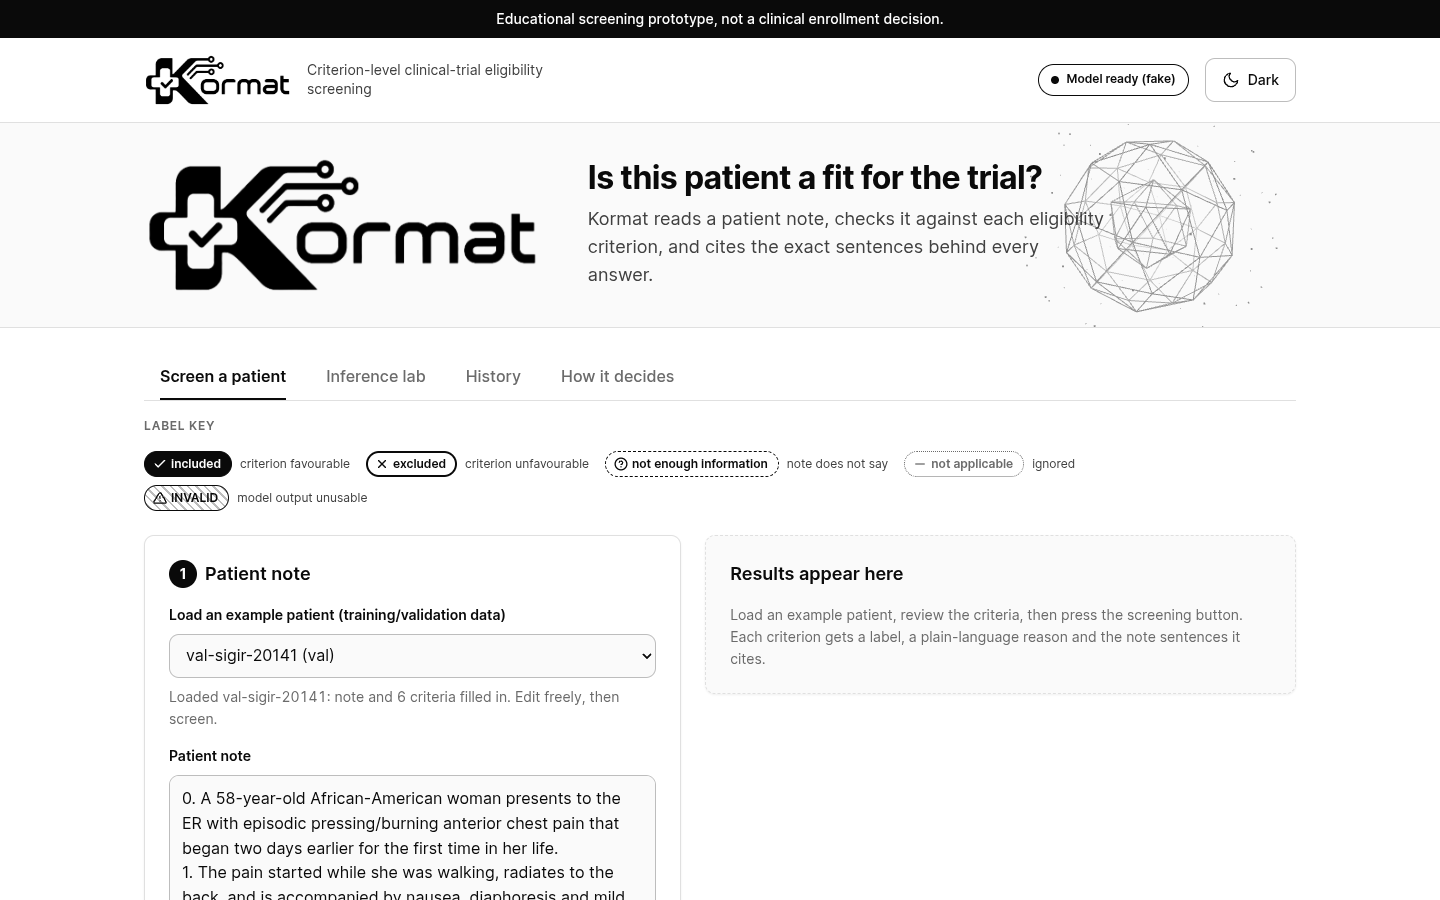
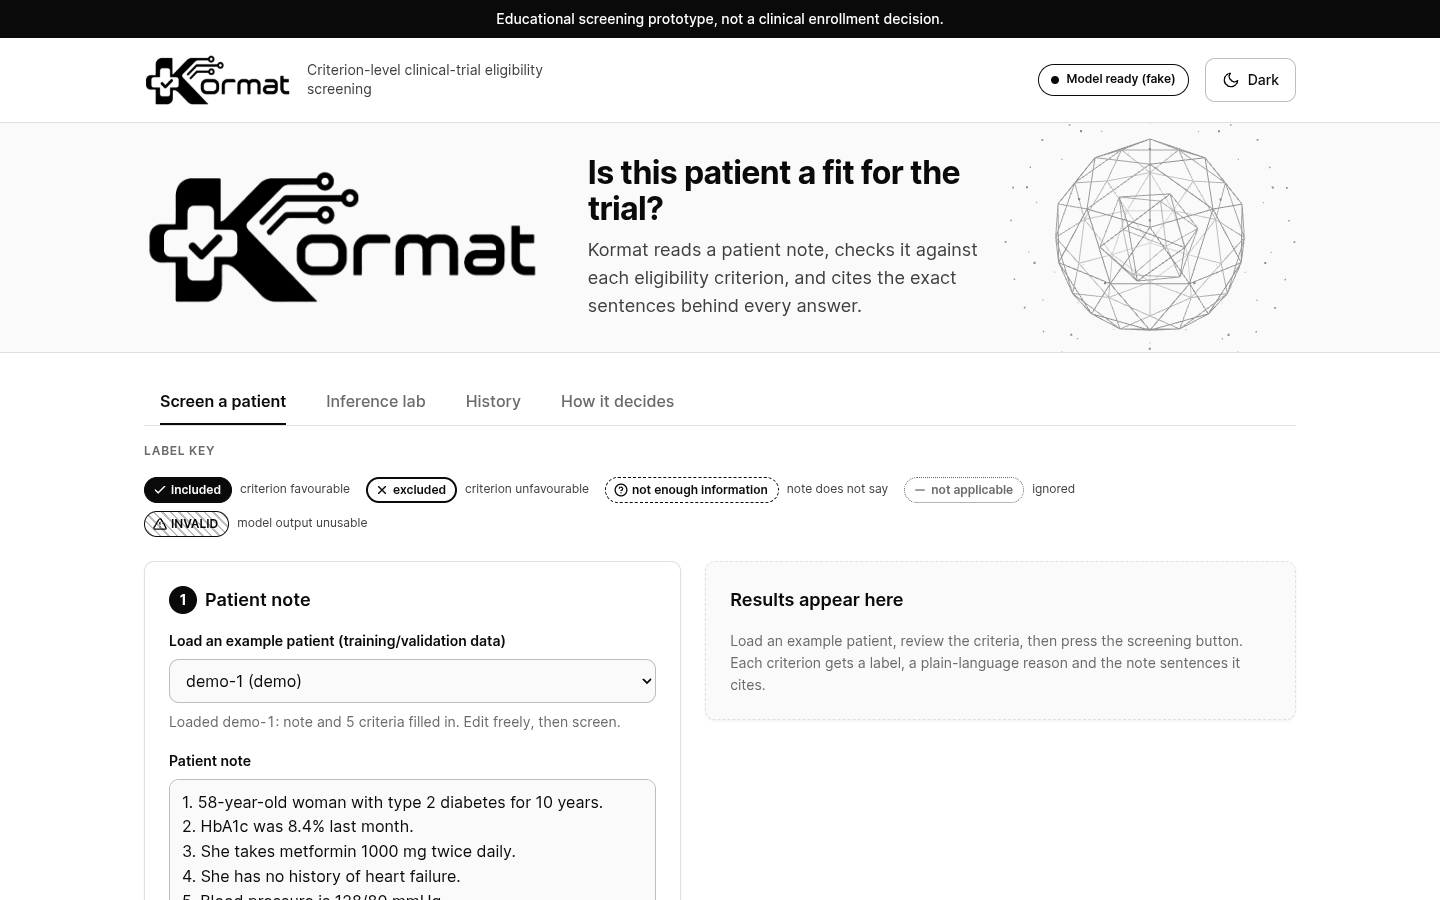
TGA-38: lead review fixes: hero text clear of 3D canvas; criterion-type labels fit (desktop+mobile)

diff --git a/src/kormat/app/static/style.css b/src/kormat/app/static/style.css
@@ -52,7 +52,7 @@ textarea:hover,input:hover,select:hover{border-color:var(--text-3)}
 .btn:disabled{opacity:.55;cursor:progress}.btn.icon{min-width:44px}
 .ic{width:18px;height:18px;flex:none;fill:none;stroke:currentColor;stroke-width:1.75;stroke-linecap:round;stroke-linejoin:round}
 .row{display:flex;gap:8px;align-items:center;margin:16px 0 0;flex-wrap:wrap}.row.nowrap{flex-wrap:wrap}.row.nowrap input{flex:1 1 140px;width:auto}
-.crit{display:grid;grid-template-columns:minmax(0,170px) minmax(0,1fr) 44px;gap:8px;margin:8px 0;animation:rise .25s var(--ease) both}
+.crit{display:grid;grid-template-columns:minmax(0,250px) minmax(0,1fr) 44px;gap:8px;margin:8px 0;animation:rise .25s var(--ease) both}
 @media(max-width:600px){.crit{grid-template-columns:minmax(0,1fr) 44px}.crit select{grid-column:1/-1}}
 .crit.excl select{border-width:2px;border-color:var(--text)}
 .crit .btn{padding:0}
@@ -130,3 +130,7 @@ pre{white-space:pre-wrap;background:var(--surface);border:1px solid var(--border
 .hero{position:relative;overflow:hidden}.hero-in{position:relative;z-index:1}
 #hero3d{display:none;position:absolute;right:0;top:0;width:340px;height:100%;pointer-events:none;opacity:.45;z-index:0}.has3d #hero3d{display:block}
 @media(max-width:1023px){#hero3d{width:100%;opacity:.15}}
+
+/* lead-review fixes: keep hero text clear of the 3D canvas; readable criterion-type labels */
+@media(min-width:1024px){.has3d .hero-in{padding-right:340px}}
+.crit select{text-overflow:ellipsis}

diff --git a/src/kormat/app/static/app.js b/src/kormat/app/static/app.js
@@ -124,7 +124,7 @@ function updateRunLabel() {
 }
 function renderCrits() {
   $("#crits").innerHTML = crits.map((c, i) => `<div class="crit${c.type === "exclusion" ? " excl" : ""}"><select aria-label="Criterion ${i + 1} type" data-i="${i}" data-f="type">
-   <option value="inclusion" ${c.type === "inclusion" ? "selected" : ""}>Inclusion — patient must meet this</option><option value="exclusion" ${c.type === "exclusion" ? "selected" : ""}>Exclusion — patient must NOT have this</option></select>
+   <option value="inclusion" ${c.type === "inclusion" ? "selected" : ""}>Inclusion · must meet</option><option value="exclusion" ${c.type === "exclusion" ? "selected" : ""}>Exclusion · must lack</option></select>
    <input aria-label="Criterion ${i + 1} text" data-i="${i}" data-f="text" value="${esc(c.text)}"><button class="btn" type="button" data-del="${i}" aria-label="Remove criterion ${i + 1}">${ico("x")}</button></div>`).join("")
     || '<p class="help">No criteria yet. Split pasted text, fetch an NCT trial, or add one by hand.</p>';
   updateRunLabel();
